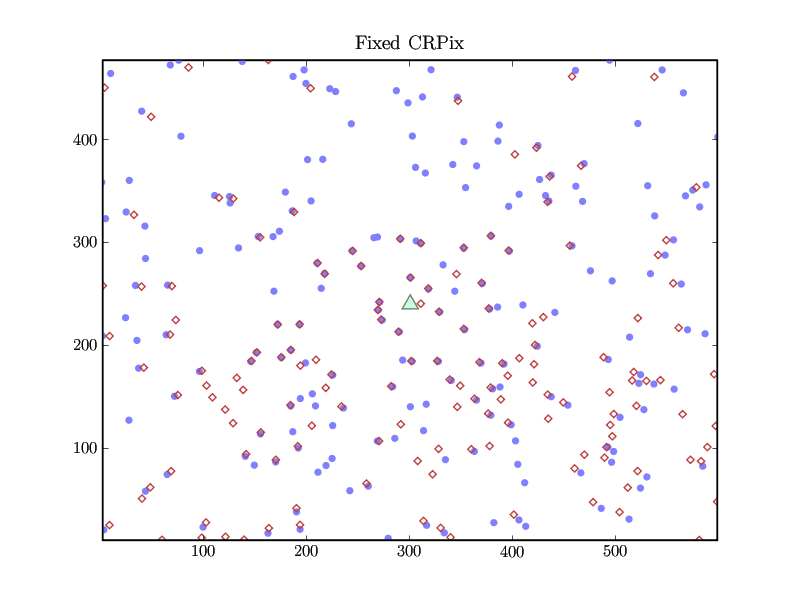
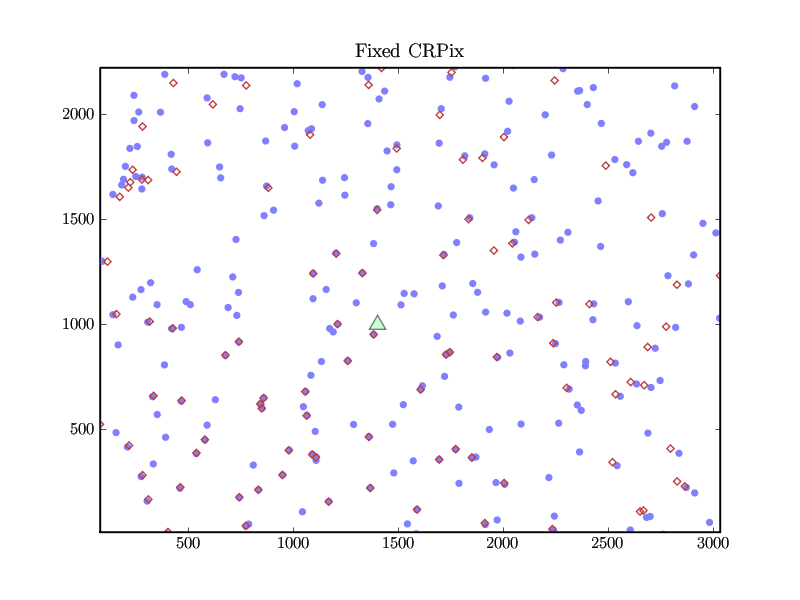
[Jon] pytweak has new argument structure, defineable crpix

diff --git a/src/pytweak/tweak.py b/src/pytweak/tweak.py
@@ -9,7 +9,8 @@ import util.sip as sip
 def tweak(inputWCSFilename, catalogRDFilename, imageXYFilename,
           outputWCSFilename, catalogXYFilename, imageRDFilename, warpDegree,
 		  progressiveWarp=DEFAULT_PROGRESSIVE_WARP,
-		  renderOutput=DEFAULT_RENDER_OUTPUT):
+		  renderOutput=DEFAULT_RENDER_OUTPUT, goal_CRPix_X=(),
+		  goal_CRPix_Y=()):
 	
 	(imageData, catalogData, WCS) = loadData(imageXYFilename, catalogRDFilename, inputWCSFilename, warpDegree)
 	
@@ -22,6 +23,11 @@ def tweak(inputWCSFilename, catalogRDFilename, imageXYFilename,
 
 	goal_crpix = [WCS.wcstan.imagew/2 + 0.5, WCS.wcstan.imageh/2 + 0.5]
 	#  We add the 0.5 to account for the pixel representation, where center = 1. Right?
+	
+	if goal_CRPix_X != ():
+		goal_crpix[0] = goal_CRPix_X
+	if goal_CRPix_Y != ():
+		goal_crpix[1] = goal_CRPix_Y
 	
 	fixCRPix(imageData, catalogData, WCS, goal_crpix)
 		
@@ -46,7 +52,7 @@ def tweak(inputWCSFilename, catalogRDFilename, imageXYFilename,
 		linearWarpAmount = sqrt(sum(square(array(WCS.warpM.reshape(2,-1)[:,-3:-1] - eye(2,2)))))
 		# linearWarpAmount = abs(1-linalg.det(linearWarp))
 				
-		# print '(shift, warp) = ', (centerShiftDist, linearWarpAmount)
+		print '(shift, warp) = ', (centerShiftDist, linearWarpAmount)
 
 		pushAffine2WCS(WCS)
 		(catalogData['X'], catalogData['Y']) = WCS_rd2xy(WCS, catalogData['RA'], catalogData['DEC'])	
@@ -80,6 +86,9 @@ if __name__ == '__main__':
 	warpDegree = ()
 	progressiveWarp = DEFAULT_PROGRESSIVE_WARP
 	renderOutput = DEFAULT_RENDER_OUTPUT
+	
+	goal_CRPix_X = ()
+	goal_CRPix_Y = ()
 
 	# Debug stuff
 	folder = 'data/tweaktest2/'
@@ -92,39 +101,48 @@ if __name__ == '__main__':
 	outputWCSFilename = folder + 'out.wcs.fits'
 	renderOutput = True
 	
-	(opts, args) = getopt.getopt(sys.argv[1:], 'i:f:w:x:r:s:d:pv')
-
+	(opts, args) = getopt.getopt(sys.argv[1:], '', ['catalog_rd=', 'catalog_xy=', 'image_rd=', 'image_xy=', 'wcs_in=', 'wcs_out=', 'order=', 'crpix_x=', 'crpix_y=', 'progressive', 'display'])
+	
 	for opt in opts:
-
-		if opt[0] == '-i':
+		
+		if opt[0] == '--catalog_rd':
 			catalogRDFilename = opt[1]
-		elif opt[0] == '-f':
+		elif opt[0] == '--image_xy':
 			imageXYFilename = opt[1]
-		elif opt[0] == '-w':
+		elif opt[0] == '--wcs_in':
 			inputWCSFilename = opt[1]
-		elif opt[0] == '-x':
+		elif opt[0] == '--catalog_xy':
 			catalogXYFilename = opt[1]
-		elif opt[0] == '-r':
+		elif opt[0] == '--image_rd':
 			imageRDFilename = opt[1]
-		elif opt[0] == '-s':
+		elif opt[0] == '--wcs_out':
 			outputWCSFilename = opt[1]
-		elif opt[0] == '-d':
+		elif opt[0] == '--order':
 			warpDegree = int(opt[1])
-		elif opt[0] == '-p':
+		elif opt[0] == '--crpix_x':
+			goal_CRPix_X = float(opt[1])
+		elif opt[0] == '--crpix_y':
+			goal_CRPix_Y = float(opt[1])
+		elif opt[0] == '--progressive':
 			progressiveWarp = True
-		elif opt[0] == '-v':
+		elif opt[0] == '--display':
 			renderOutput = True
 
 	if ((imageXYFilename == ()) | (catalogRDFilename == ()) | (inputWCSFilename == ())):
 		print 'insufficient input arguments'
-		print 'usage: python tweak.py -w WCS_FITS -i index_RD_FITS -f field_XY_FITS [-x index_XY_FITS -r field_RD_FITS -s output_WCS_FITS -d order -p -r]'
-		print '-p does progressive warping'
-		print '-v renders visible output'
+		print 'usage: python tweak.py --wcs_in=INPUT_WCS_FITS --catalog_rd=CATALOG_RD_FITS --image_xy=IMAGE_XY_FITS [--catalog_xy CATALOG_XY_FITS --image_rd IMAGE_RD_FITS --wcs_out OUTPUT_WCS_FITS --order WARP_ORDER --progressive --display]'
+		print ' [--progressive] Does progressive warping'
+		print ' [--render] Renders visible output'
 		raise SystemExit
 
 	if warpDegree == ():
 		print 'warp degree not specified, using default of', DEFAULT_WARP_DEGREE
 		warpDegree = DEFAULT_WARP_DEGREE
-
-	tweak(inputWCSFilename, catalogRDFilename, imageXYFilename, outputWCSFilename, catalogXYFilename, imageRDFilename, warpDegree, progressiveWarp, renderOutput)
+	
+	if (goal_CRPix_X == ()) & (goal_CRPix_Y == ()):
+		print 'no crpix values specified, defaulting to image center'
+	elif not((goal_CRPix_X != ()) & (goal_CRPix_Y != ())):
+		print 'warning: only one crpix value specified. Unspecified value defaulting to image center'
+		
+	tweak(inputWCSFilename, catalogRDFilename, imageXYFilename, outputWCSFilename, catalogXYFilename, imageRDFilename, warpDegree, progressiveWarp, renderOutput, goal_CRPix_X, goal_CRPix_Y)
 

diff --git a/src/pytweak/tweak_lib.py b/src/pytweak/tweak_lib.py
@@ -35,7 +35,7 @@ def fixCRPix(imageData, catalogData, WCS, goal_crpix):
 	(WCS.wcstan.crval[0], WCS.wcstan.crval[1]) = WCS.pixelxy2radec(goal_crpix[0], goal_crpix[1])
 	(WCS.wcstan.crpix[0], WCS.wcstan.crpix[1]) = (goal_crpix[0], goal_crpix[1])
 	(catalogData['X'], catalogData['Y']) = WCS_rd2xy(WCS, catalogData['RA'], catalogData['DEC'])
-		
+	
 	polyWarp(imageData, catalogData, WCS)
 	
 	pushAffine2WCS(WCS)
@@ -228,7 +228,7 @@ def tweakImage(imageData, catalogData, WCS):
 	# print 'tweaking image with degree =', WCS.warpDegree
 
 	for iter in range(0,TWEAK_MAX_NUM_ITERS):
-
+				
 		just_requeried = 0;
 		if redist_countdown == 0:
 			(pairs_all, dists_all) = findAllPairs(column_stack((imageData['X'], imageData['Y'])), column_stack((catalogData['X'], catalogData['Y'])), maxImageDist)
@@ -250,7 +250,7 @@ def tweakImage(imageData, catalogData, WCS):
 		polyWarp(imageData, catalogData, WCS)
 		
 		totalResiduals.append(numDropped*MINWEIGHT*(MINWEIGHT_DOS**2) + sum(square(imageData['residuals'])))
-
+		
 		redist_countdown = redist_countdown - 1
 		if (iter > 3) & all(abs(totalResiduals[-3:-1] - totalResiduals[-1]) <= MIN_IRLS_ACCURACY):
 			if just_requeried:
@@ -260,7 +260,7 @@ def tweakImage(imageData, catalogData, WCS):
 	
 	print 'image tweaked in', iter, 'iterations'
 
-
+# This "adds" the affine warp in WCS.warpM to CD
 def pushAffine2WCS(WCS):
 	startCRPix = array([WCS.wcstan.crpix[0], WCS.wcstan.crpix[1]])
 	centerShift = array(WCS.warpM.reshape(2,-1)[:,-1].T)[0]
@@ -274,8 +274,11 @@ def pushAffine2WCS(WCS):
 	CD2 = (CD*linearWarp).reshape(-1,1)
 	for i in arange(0,4):
 		WCS.wcstan.cd[i] = CD2[i]
+	
+	# Flush warp out of WCS.warpM
+	WCS.warpM.reshape(2,-1)[:,-3:] = mat([1., 0., 0. , 0., 1., 0.]).reshape(2,3)
 
-
+# This *replaces* the SIP warp in the WCS with the higher-order terms in WCS.warpM
 def pushPoly2WCS(WCS):
 	SIP_im2cat = WCS.warpM.reshape(2,-1)[:,:-3].reshape(-1,1).copy()
 
@@ -306,6 +309,9 @@ def pushPoly2WCS(WCS):
 			WCS.ap[idx] = SIP_cat2im[col]
 			WCS.bp[idx] = SIP_cat2im[col+SIP_cat2im.shape[0]/2]
 			col = col + 1
+	
+	# Flush polynomial warp out of warpM
+	WCS.warpM.reshape(2,-1)[:,:-3] = 0
 
 
 def writeOutput(WCS, inputWCSFilename, outputWCSFilename, catalogXYFilename, catalogRDFilename, imageXYFilename, imageRDFilename, renderOutput):
@@ -385,4 +391,4 @@ def writeOutput(WCS, inputWCSFilename, outputWCSFilename, catalogXYFilename, cat
 			else:
 				print 'not rendering warped image because image output not specified'
 	else:
-		print 'not writing WCS output, so not writing any output!'
+		print 'cannot write WCS output, all output aborted'
